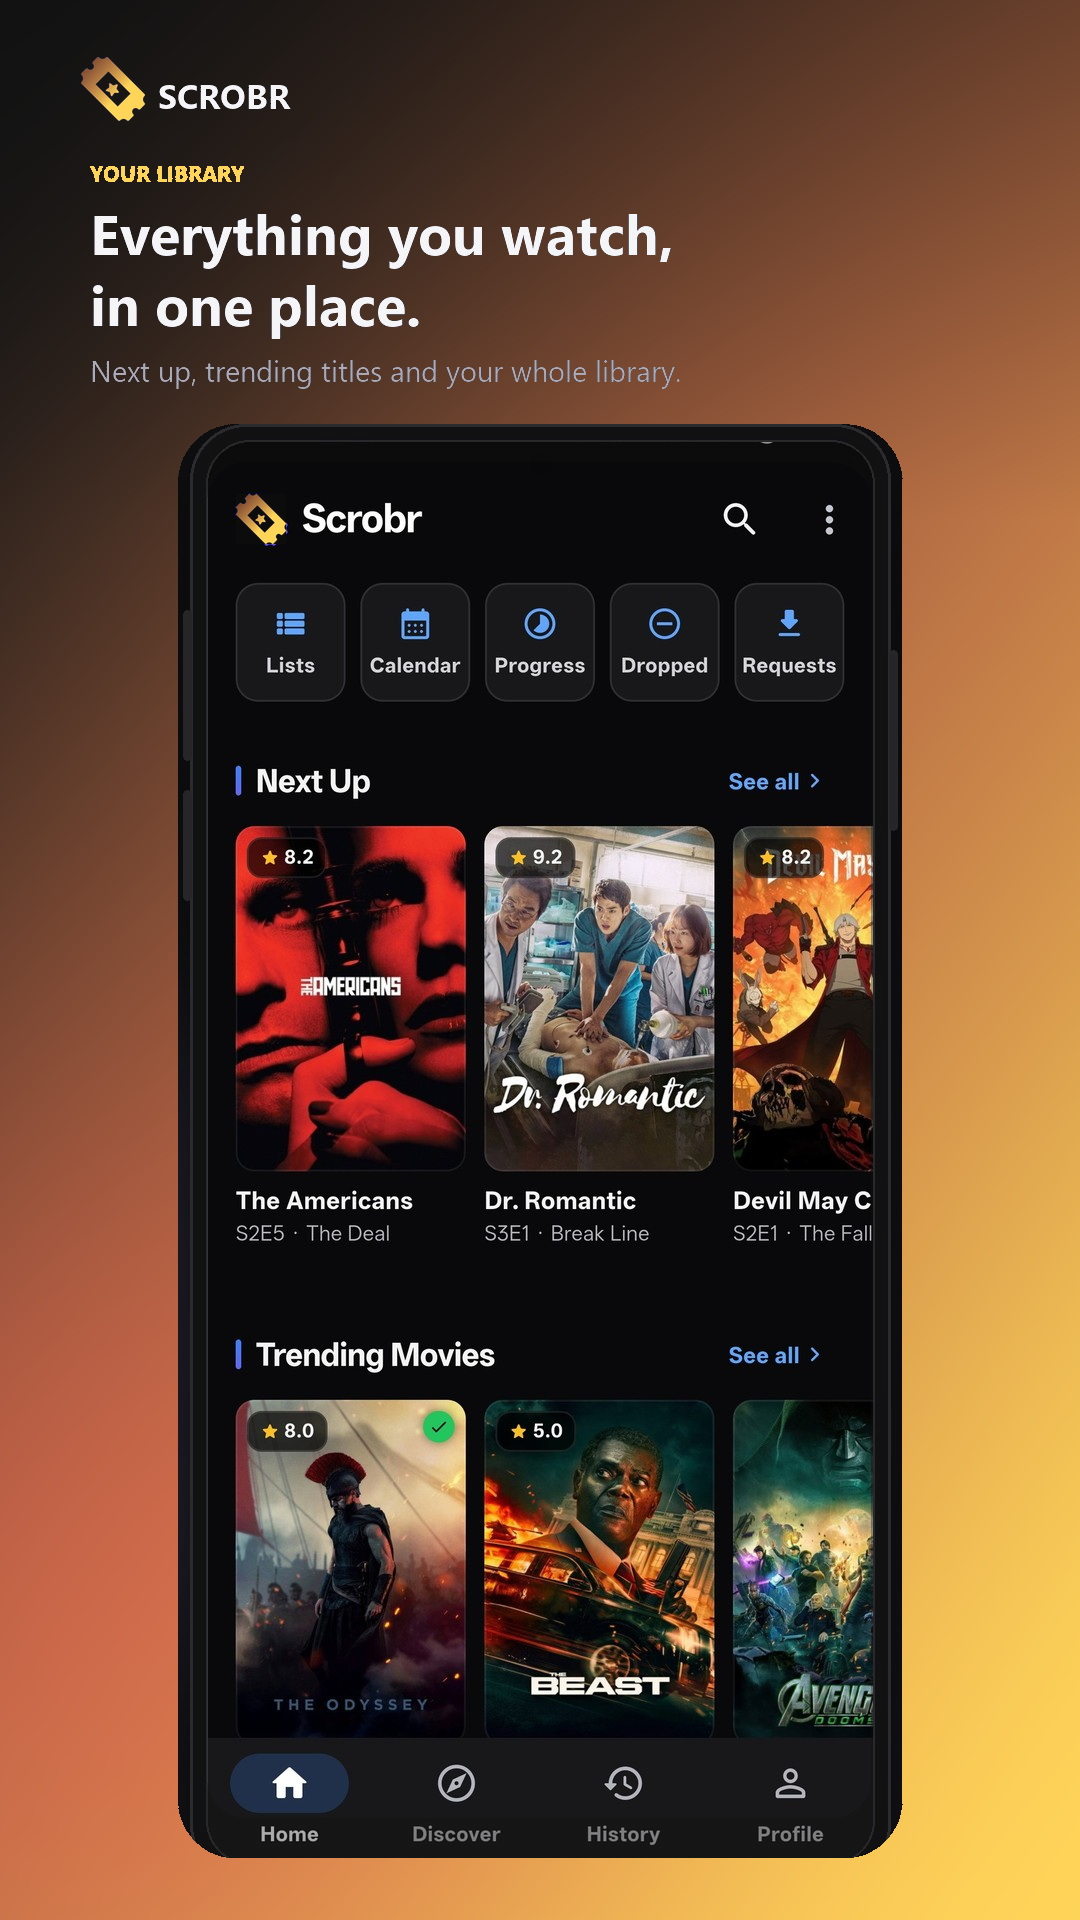
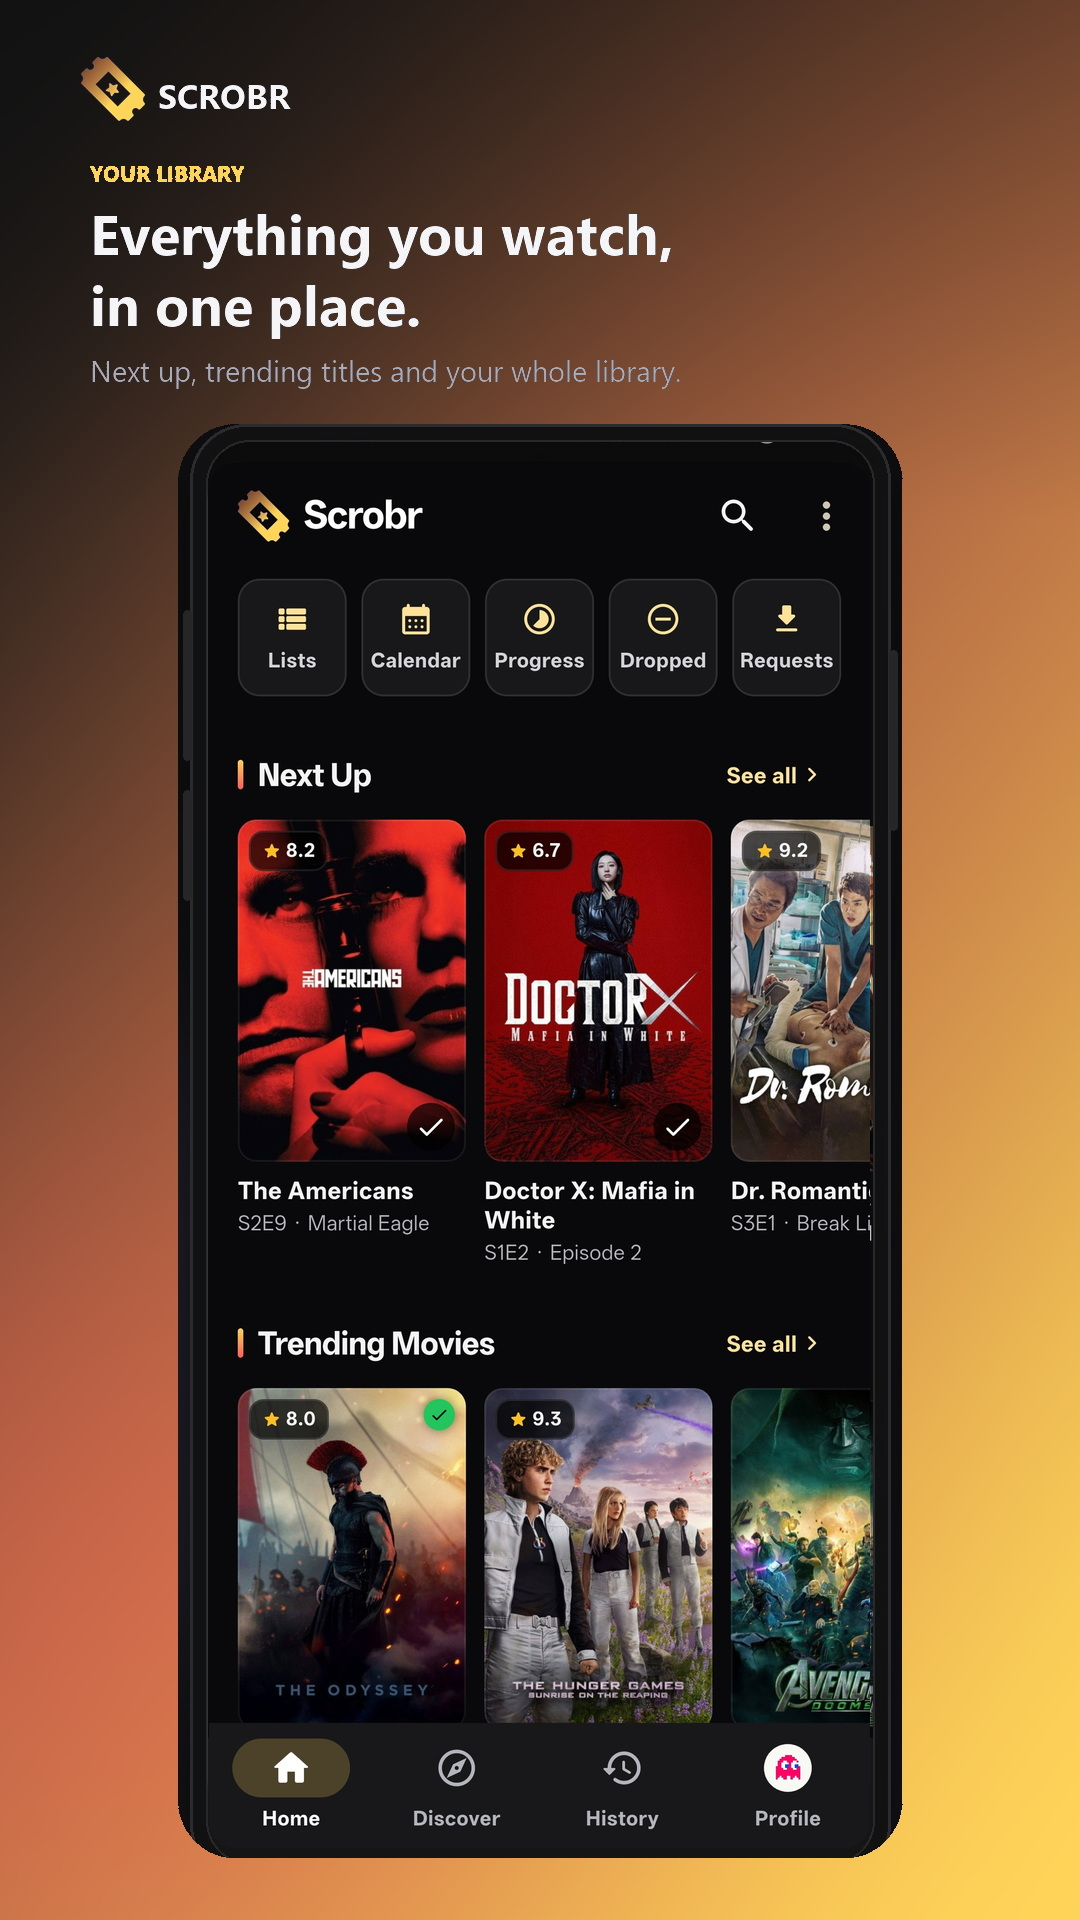
docs: use gold-themed app screenshots

diff --git a/README.md b/README.md
@@ -19,8 +19,8 @@ and the main browsing, tracking, social and settings flows of the web UI.
 | <img src="play-store/03-progress.jpg" width="300" alt="Scrobr show progress"> | <img src="play-store/04-discover-movies.jpg" width="300" alt="Scrobr discover movies"> |
 | **Discover shows** | **History** |
 | <img src="play-store/05-discover-shows.jpg" width="300" alt="Scrobr discover shows"> | <img src="play-store/06-history.jpg" width="300" alt="Scrobr watch history"> |
-| **Profile** | |
-| <img src="play-store/07-profile.jpg" width="300" alt="Scrobr profile and stats"> | |
+| **Profile** | **Settings** |
+| <img src="play-store/07-profile.jpg" width="300" alt="Scrobr profile and stats"> | <img src="play-store/08-settings.jpg" width="300" alt="Scrobr settings and appearance"> |
 
 ## Features
 
